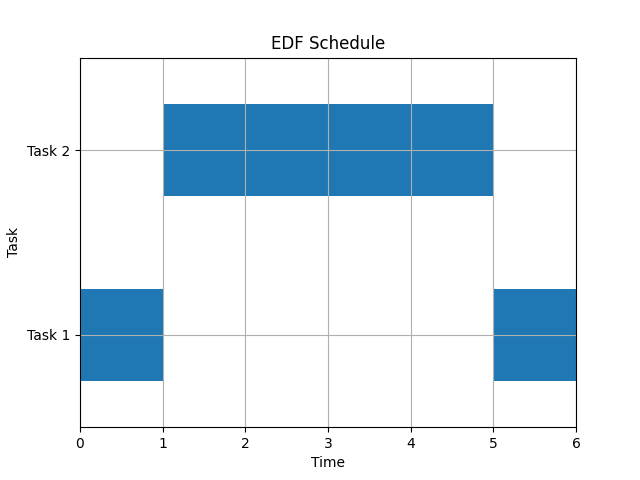
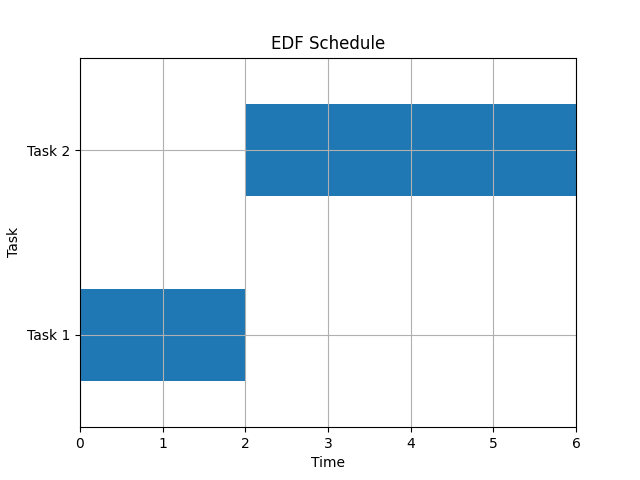
Preemption bugfix. Update example edf png

diff --git a/schedule.py b/schedule.py
@@ -256,7 +256,7 @@ def make_edf(edf_task_list, lcm):
     for ti in task_insts:
       if ti.start <= i:
         possible_ti.append(ti)
-    possible_ti.sort(key=lambda x: (x.priority, x.start))
+    possible_ti.sort(key=priority_cmp)
     if len(possible_ti) > 0:
       print(possible_ti)
       curr_ti = possible_ti[0]
